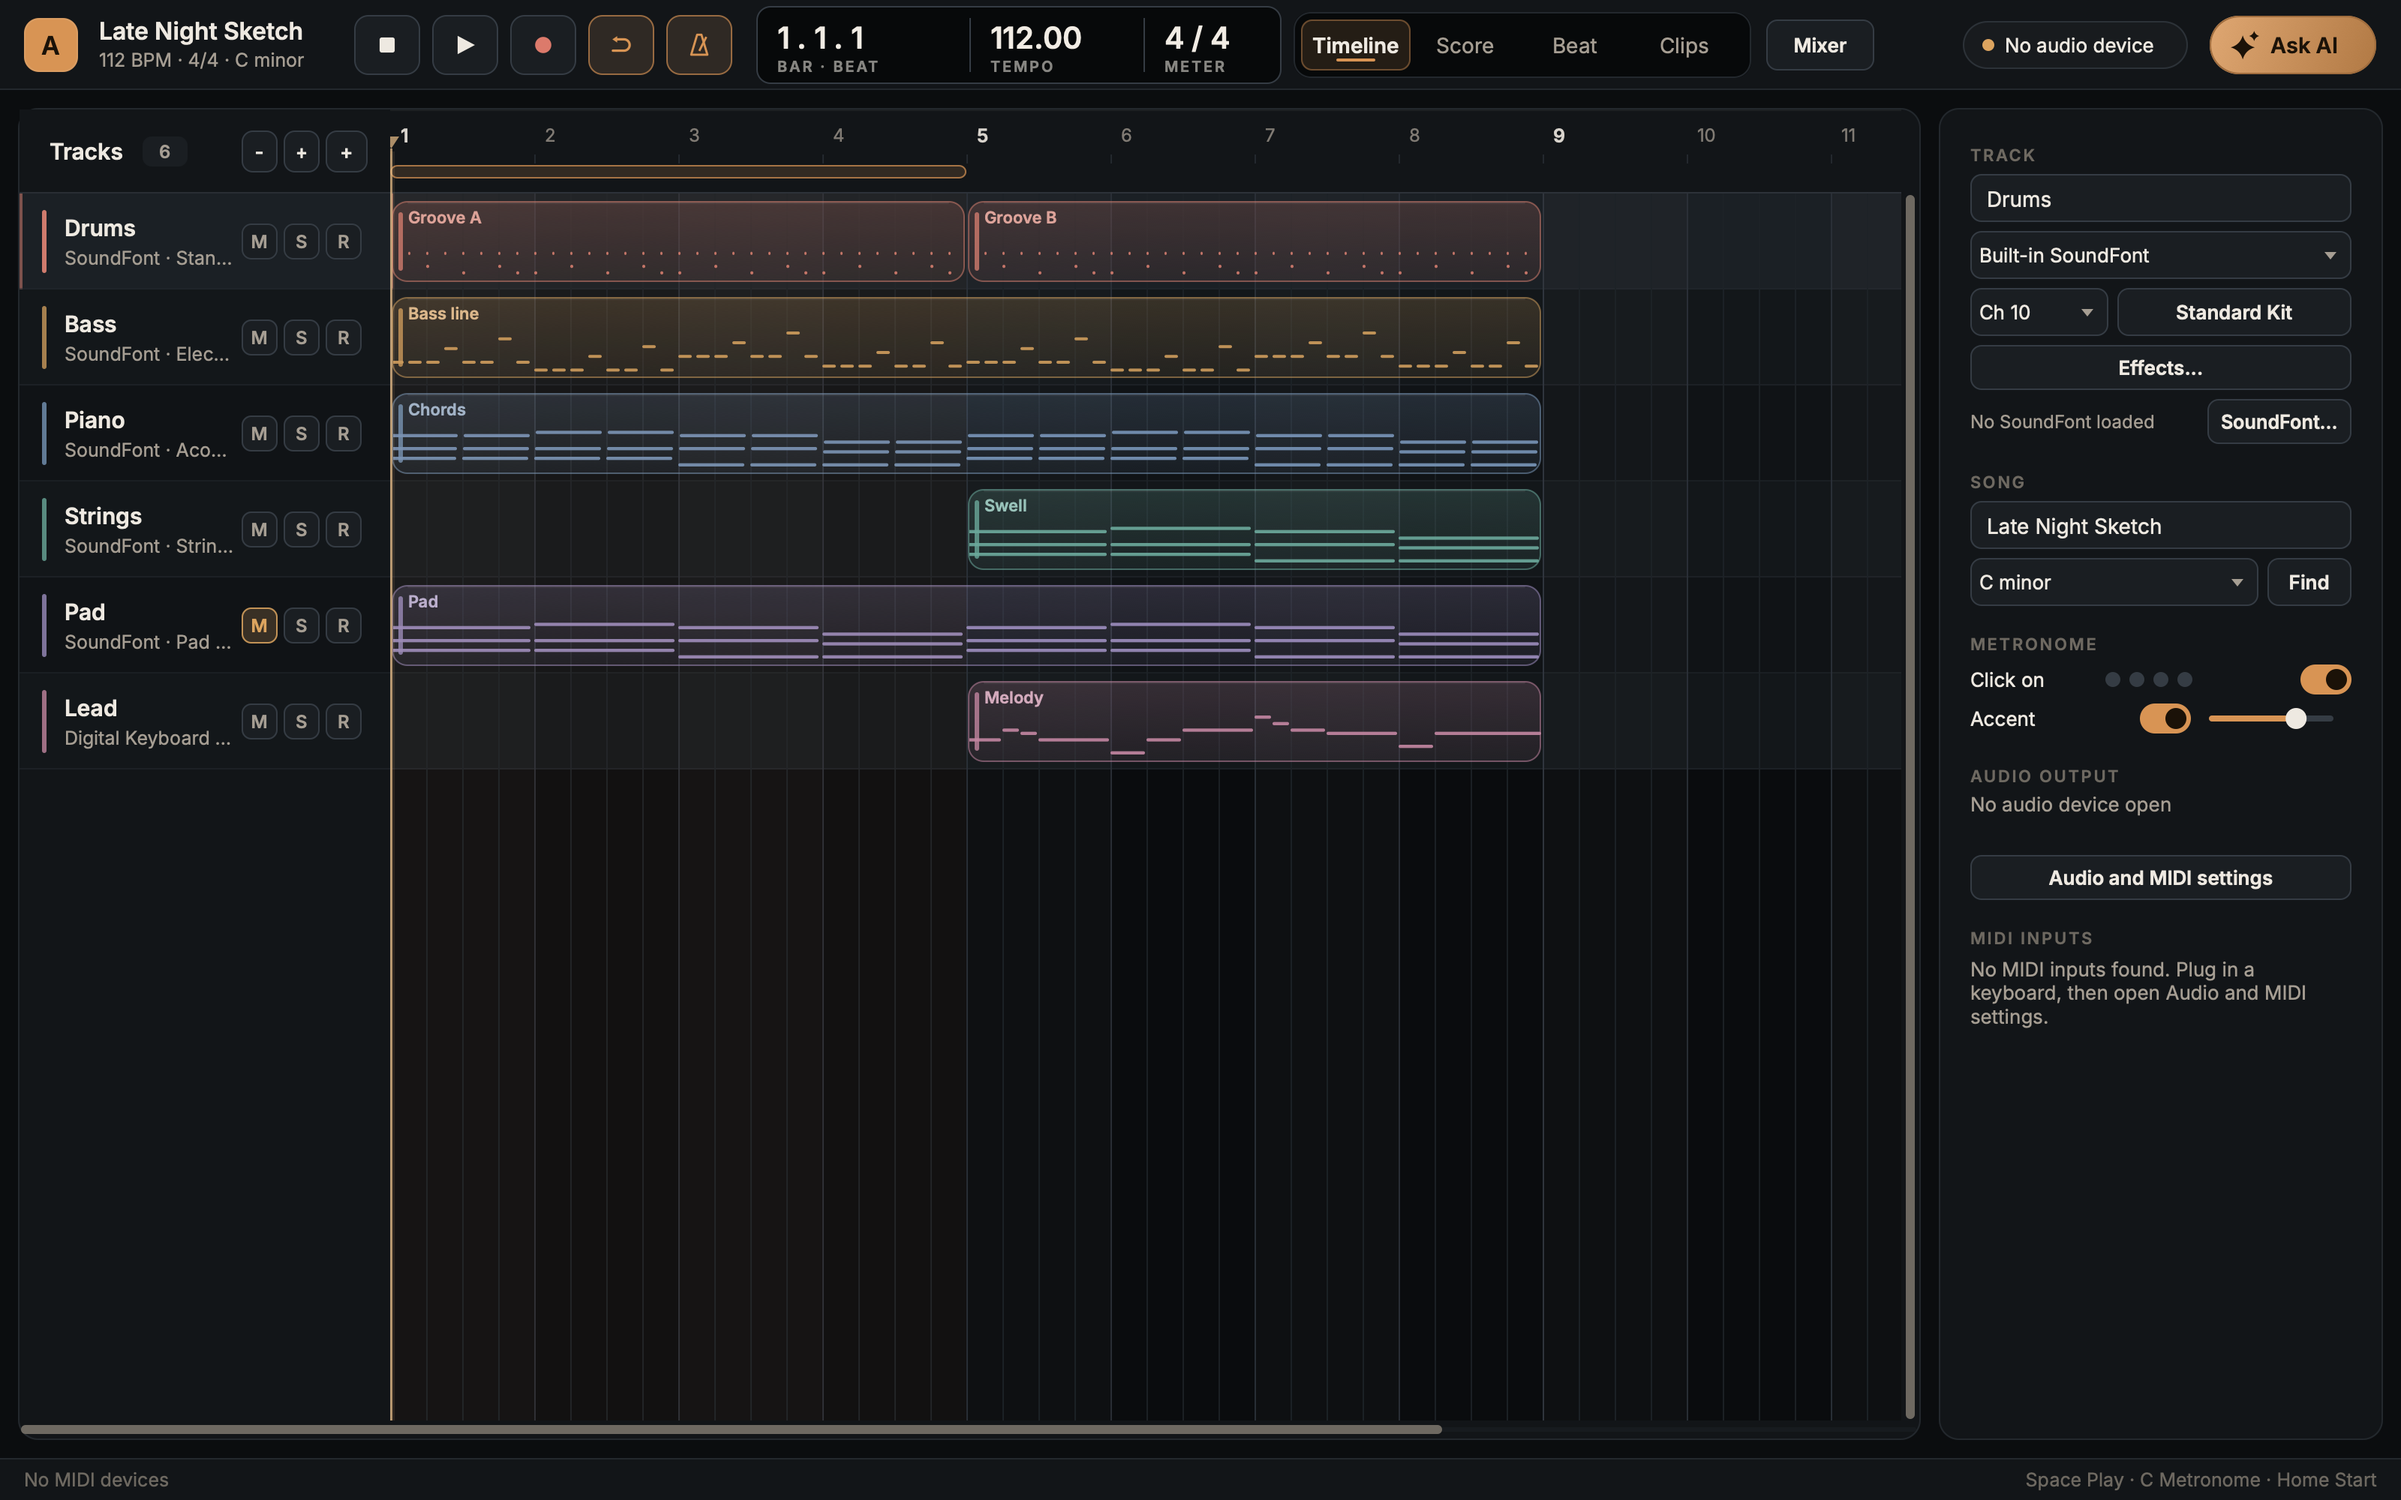
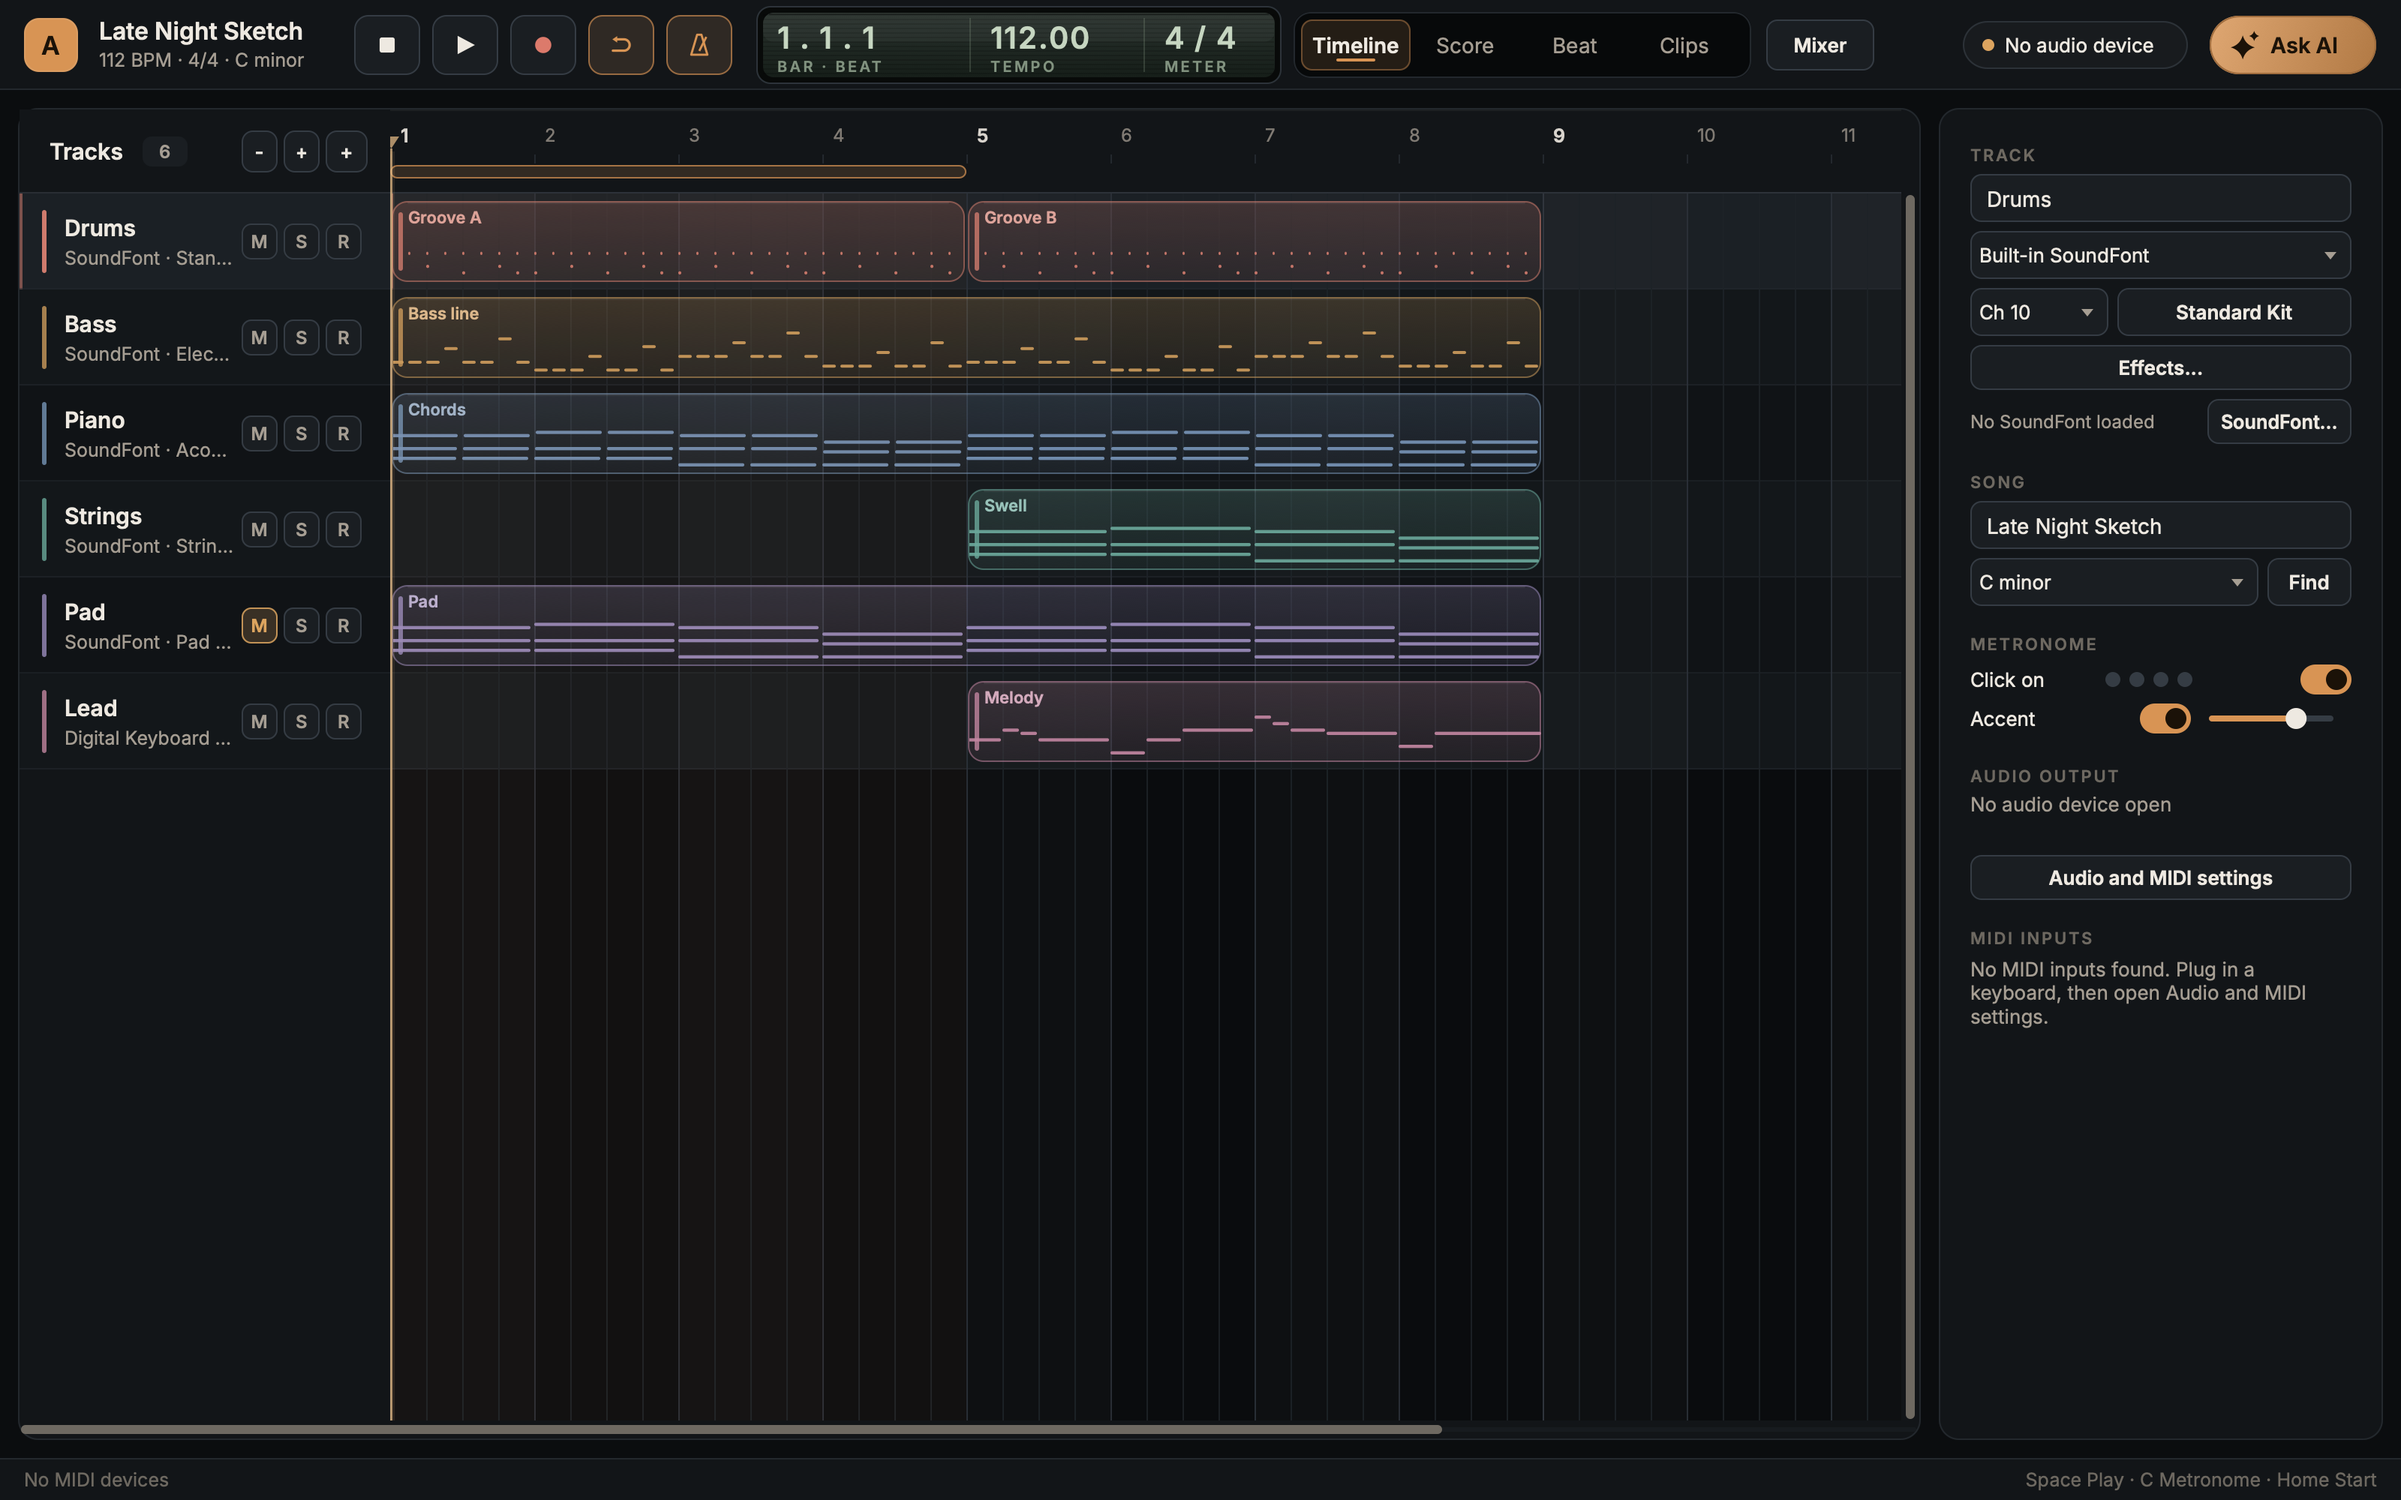
Add a grey-green LCD and dark silver mixer faders

Changed region(s): [[0.3125, 0.0, 0.5312, 0.062]]

diff --git a/src/app/ui/MixerView.cpp b/src/app/ui/MixerView.cpp
@@ -339,11 +339,17 @@ private:
         const auto& t = currentTheme();
         const auto fader = faderArea();
         const float pos = faderPosition();
-        g.setColour (t.isDark ? t.colour ("background") : t.colour ("lineStrong"));
-        g.fillRoundedRectangle (juce::Rectangle<float> (fader.getCentreX() - 2.5f, fader.getY(), 5.0f, fader.getHeight()), 2.5f);
-        g.setColour (colour.withAlpha (0.55f));
         const float capY = fader.getBottom() - pos * fader.getHeight();
-        g.fillRoundedRectangle (juce::Rectangle<float> (fader.getCentreX() - 2.5f, capY, 5.0f, fader.getBottom() - capY), 2.5f);
+
+        // A recessed slot with a brushed metal cap.
+        const auto slot = juce::Rectangle<float> (fader.getCentreX() - 3.5f, fader.getY(), 7.0f, fader.getHeight());
+        g.setColour (t.colour ("faderEdge"));
+        g.fillRoundedRectangle (slot, 3.5f);
+        g.setColour (t.colour ("faderLine").withAlpha (0.22f));
+        g.drawRoundedRectangle (slot.reduced (0.5f), 3.0f, 1.0f);
+
+        g.setColour (colour.withAlpha (0.60f));
+        g.fillRoundedRectangle (juce::Rectangle<float> (fader.getCentreX() - 1.5f, capY, 3.0f, std::max (0.0f, fader.getBottom() - capY)), 1.5f);
 
         g.setFont (t.font (9.5f));
         for (float db : { 6.0f, 0.0f, -6.0f, -12.0f, -24.0f, -48.0f })
@@ -358,13 +364,27 @@ private:
             g.drawText (juce::String (juce::roundToInt (db)), juce::Rectangle<float> (fader.getX() - 26.0f, y - 6.0f, 22.0f, 12.0f), juce::Justification::centredRight, false);
         }
 
-        const auto cap = juce::Rectangle<float> (fader.getCentreX() - 16.0f, capY - 10.0f, 32.0f, 20.0f);
+        const auto cap = juce::Rectangle<float> (fader.getCentreX() - 17.0f, capY - 11.0f, 34.0f, 22.0f);
+        g.setColour (juce::Colours::black.withAlpha (0.45f));
+        g.fillRoundedRectangle (cap.translated (0.0f, 2.5f), 5.0f);
+
+        juce::ColourGradient metal (t.colour ("faderFaceTop"), cap.getX(), cap.getY(),
+                                    t.colour ("faderFaceBottom"), cap.getX(), cap.getBottom(), false);
+        g.setGradientFill (metal);
+        g.fillRoundedRectangle (cap, 5.0f);
+
+        g.setColour (t.colour ("faderEdge"));
+        g.drawRoundedRectangle (cap.reduced (0.5f), 5.0f, 1.0f);
+        g.setColour (t.colour ("faderLine").withAlpha (0.55f));
+        g.fillRoundedRectangle (cap.withHeight (1.0f).reduced (5.0f, 0.0f), 0.5f);
         g.setColour (juce::Colours::black.withAlpha (0.35f));
-        g.fillRoundedRectangle (cap.translated (0.0f, 2.0f), 4.0f);
-        g.setColour (t.isDark ? juce::Colour (0xffd8d2c6) : juce::Colour (0xfffbf8f2));
-        g.fillRoundedRectangle (cap, 4.0f);
-        g.setColour (juce::Colour (0xff4a443b));
-        g.fillRect (cap.getX() + 5.0f, cap.getCentreY() - 0.75f, cap.getWidth() - 10.0f, 1.5f);
+        g.fillRect (cap.getX() + 3.0f, cap.getBottom() - 2.0f, cap.getWidth() - 6.0f, 1.0f);
+
+        // The centre groove makes the cap look milled from one piece of metal.
+        g.setColour (t.colour ("faderEdge").withAlpha (0.85f));
+        g.fillRoundedRectangle (juce::Rectangle<float> (cap.getX() + 6.0f, cap.getCentreY() - 1.0f, cap.getWidth() - 12.0f, 2.0f), 1.0f);
+        g.setColour (t.colour ("faderLine").withAlpha (0.28f));
+        g.fillRect (cap.getX() + 7.0f, cap.getCentreY() + 1.0f, cap.getWidth() - 14.0f, 1.0f);
 
         drawMeter (g);
     }

diff --git a/src/app/ui/HeaderBar.cpp b/src/app/ui/HeaderBar.cpp
@@ -120,11 +120,32 @@ juce::Rectangle<int> LcdDisplay::cell (int index) const
 void LcdDisplay::paint (juce::Graphics& g)
 {
     const auto& t = currentTheme();
-    const auto r = getLocalBounds().toFloat().reduced (0.5f);
-    g.setColour (t.colour ("lcd"));
-    g.fillRoundedRectangle (r, t.metric ("radius", 8.0f));
-    g.setColour (t.colour ("lineStrong"));
-    g.drawRoundedRectangle (r, t.metric ("radius", 8.0f), 1.0f);
+    const auto radius = t.metric ("radius", 8.0f);
+    const auto outer = getLocalBounds().toFloat().reduced (0.5f);
+    const auto screen = outer.reduced (4.0f);
+
+    g.setColour (t.colour ("lcdBezel"));
+    g.fillRoundedRectangle (outer, radius);
+    g.setColour (t.colour ("lineStrong").withAlpha (0.8f));
+    g.drawRoundedRectangle (outer, radius, 1.0f);
+
+    juce::ColourGradient glass (t.colour ("lcdBack").brighter (0.07f), screen.getX(), screen.getY(),
+                                t.colour ("lcdBack").darker (0.20f), screen.getX(), screen.getBottom(), false);
+    g.setGradientFill (glass);
+    g.fillRoundedRectangle (screen, radius - 2.0f);
+
+    g.saveState();
+    g.reduceClipRegion (screen.toNearestInt());
+    // Fine horizontal lines and a soft top highlight give the display its glass look.
+    g.setColour (juce::Colours::black.withAlpha (t.isDark ? 0.16f : 0.10f));
+    for (float y = screen.getY() + 1.0f; y < screen.getBottom(); y += 3.0f)
+        g.fillRect (juce::Rectangle<float> (screen.getX(), y, screen.getWidth(), 1.0f));
+    g.setColour (juce::Colours::white.withAlpha (t.isDark ? 0.035f : 0.05f));
+    g.fillRoundedRectangle (screen.withHeight (screen.getHeight() * 0.45f), radius - 2.0f);
+    g.restoreState();
+
+    g.setColour (juce::Colours::black.withAlpha (0.35f));
+    g.drawHorizontalLine (juce::roundToInt (screen.getY() + 0.5f), screen.getX() + 4.0f, screen.getRight() - 4.0f);
 
     const auto bb = toBarBeat (static_cast<Tick> (position), meter);
     const juce::String values[] = {
@@ -139,15 +160,15 @@ void LcdDisplay::paint (juce::Graphics& g)
         auto c = cell (i);
         if (i > 0)
         {
-            g.setColour (t.colour ("lineStrong"));
+            g.setColour (t.colour ("lcdDim").withAlpha (0.28f));
             g.fillRect (c.getX(), 8, 1, getHeight() - 16);
         }
         c = c.reduced (14, 7);
-        g.setColour (t.colour ("lcdText"));
-        g.setFont (t.font (20.0f, true));
+        g.setColour (t.colour ("lcdInk"));
+        g.setFont (t.font (20.0f, true).withExtraKerningFactor (0.04f));
         g.drawText (values[i], c.removeFromTop (28), juce::Justification::centredLeft);
-        g.setColour (t.colour ("lcdText").withAlpha (0.55f));
-        g.setFont (t.font (10.0f, true).withExtraKerningFactor (0.12f));
+        g.setColour (t.colour ("lcdDim"));
+        g.setFont (t.font (10.0f, true).withExtraKerningFactor (0.14f));
         g.drawText (juce::String::fromUTF8 (labels[i]), c, juce::Justification::centredLeft);
     }
 }

diff --git a/docs/style-guide.md b/docs/style-guide.md
@@ -28,7 +28,11 @@ The look of Arranger MIDI DAW: a warm charcoal studio with a copper accent, mode
 | `playing` | `#96b57e` | Play button while playing |
 | `recording` | `#dc7a6b` | Record button |
 | `ok` / `warning` | `#91ad7c` / `#dca45f` | Device status dots |
-| `lcd` / `lcdText` | `#07090a` / `#f1ece4` | Position, tempo and meter display |
+| `lcd` / `lcdText` | `#07090a` / `#f1ece4` | Dark display surfaces and their fallback text |
+| `lcdBack` / `lcdInk` / `lcdDim` | `#1b241f` / `#c6d6c1` / `#81927f` | Grey-green LCD glass, digits and labels |
+| `lcdBezel` | `#080a09` | LCD frame |
+| `faderFaceTop` / `faderFaceBottom` | `#6f757b` / `#2e3236` | Dark silver fader cap |
+| `faderEdge` / `faderLine` | `#080a0b` / `#9aa0a6` | Fader slot and metal highlights |
 | `timeline` / `lane` / `laneAlt` | `#0a0c0e` / `#101316` / `#13171a` | Timeline canvas and alternating track lanes |
 | `laneSelected` | `#1b2025` | Selected track lane |
 | `gridBar` / `gridBeat` | `#2b3138` / `#1d2227` | Bar and beat lines |
